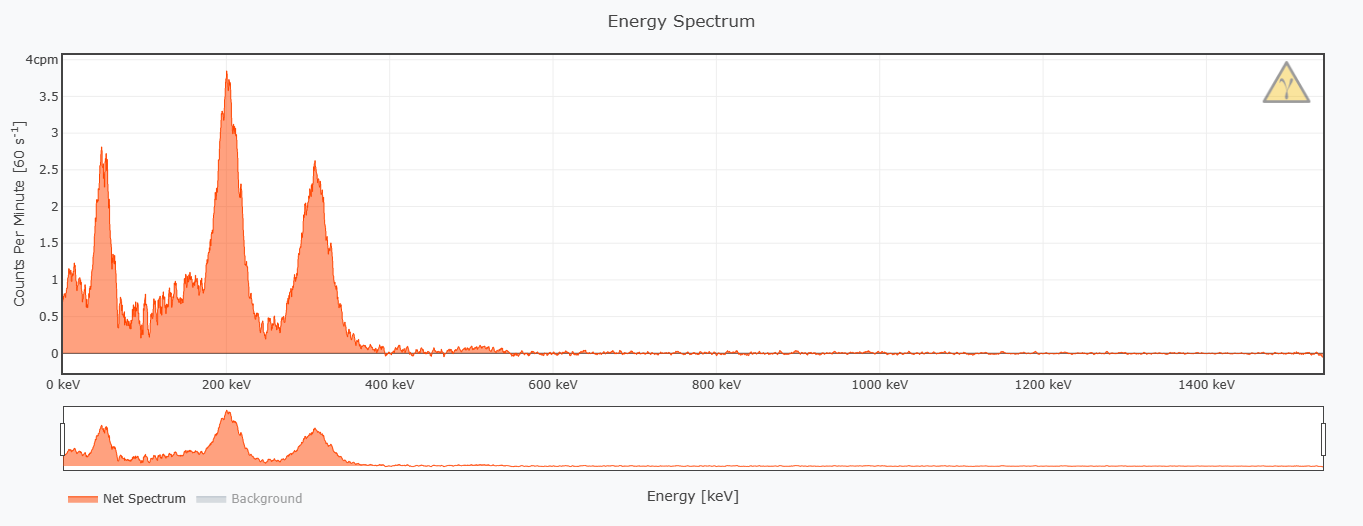
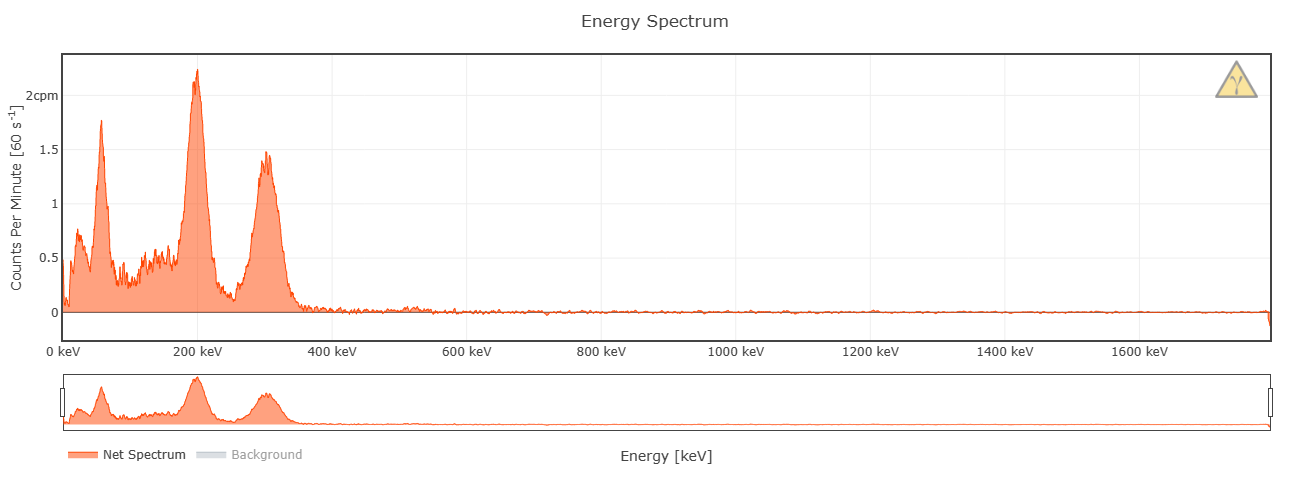
update example spectra

diff --git a/README.md b/README.md
@@ -81,19 +81,19 @@ If this doesn't help you, feel free to reach out and create an issue or open a d
 
 Here is a small collection of example spectra I could make quickly without putting much effort into the detector settings (threshold, SiPM voltage, software tweaks). I'm using the [Tiny MicroFC Breakout](https://github.com/OpenGammaProject/Tiny-MicroFC-Carrier-Board) and just a single SiPM (which isn't the optimal setup actually). In addition, neither the electronics nor the scintillator and sample were shielded from EMI or background radiation whatsoever. So as you can see the detector is actually pretty robust in that regard.
 
-4 hour long background spectrum with no samples:
+Background spectrum (4h) with no samples:
 
 ![Background spectrum](docs/bg.png)
 
-30 minute spectrum of two tiny (~5 g) LYSO scintillator showing two distinct gamma peaks (201.83, 306.78 keV) with an additional ~55 keV X-ray peak. The 307 keV peak has ~13.5% energy resolution in this case:
+Spectrum (2h) of two tiny (~5 g) LYSO scintillator showing two distinct gamma peaks (201.83, 306.78 keV) with an additional ~55 keV X-ray peak. The 307 keV peak has an energy resolution of ~14% in this case:
 
 ![Lu-176 spectrum](docs/lu-176.png)
 
-5 minute spectrum of Am-241 commonly used in household ionization smoke detectors (e.g. in the US, they're no longer allowed in the EU). Gamma peaks at 26.34 and 59.54 keV:
+Spectrum (5min) of Am-241 commonly used in household ionization smoke detectors (e.g. in the US, no longer in the EU). Gamma peaks at 26.34 and 59.54 keV:
 
 ![Am-176 spectrum](docs/am-241.png)
 
-30 minute spectrum of a small tea cup with pure Uraninite (also known as pitchblende) contents in its glaze. You can see all kinds of isotopes of the Uranium series including the Bi-214 peak at ~610 keV:
+Spectrum (2h) of a small tea cup with pure Uraninite (also known as pitchblende) contents in its glaze. You can see all kinds of isotopes of the Uranium series including the Bi-214 peak at ~610 keV:
 
 ![Uraninite Glaze](docs/glaze.png)
 
@@ -101,7 +101,7 @@ Spectrum of a Na-22 test source, about ~2 µCi made with a Rev.2 board (worse en
 
 ![Na-22](docs/na-22.png)
 
-4 hour long spectrum of about 100 grams of mushrooms still containing the isotope Cs-137 from the Chernobyl disaster. You can clearly see the gamma peak at 662 keV and the ~32 keV X-ray peak:
+Spectrum (4h) of about 100 grams of mushrooms still containing the isotope Cs-137 from the Chernobyl disaster. You can clearly see the gamma peak at 662 keV and the ~32 keV X-ray peak. Resolution of the 662 keV peak was ~10%, because I was only using a single SiPM with an old 9% scintillator:
 
 ![Mushroom "test source"](docs/mushrooms.png)
 
